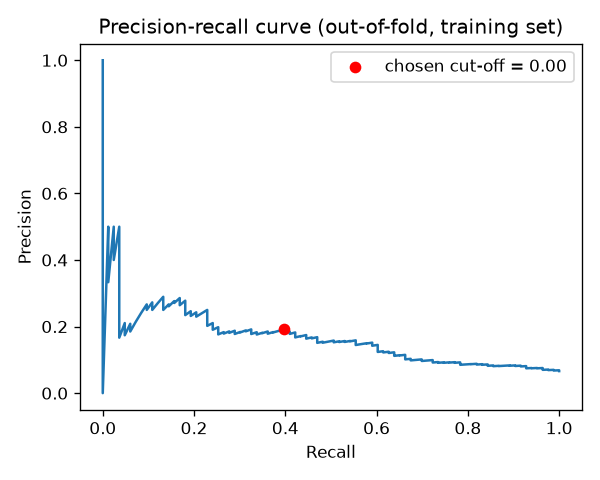
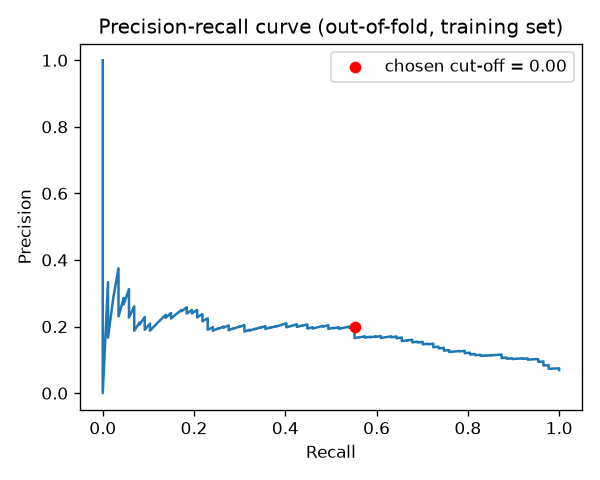
Module 7: SensorCleaner in all pipelines, time-based split, prepare_splits helper

Changed region(s): [[0.15, 0.4688, 0.93, 0.7812]]

diff --git a/src/models.py b/src/models.py
@@ -1,36 +1,49 @@
 from imblearn.over_sampling import SMOTE
 from imblearn.pipeline import Pipeline
 from sklearn.ensemble import HistGradientBoostingClassifier, RandomForestClassifier
+from sklearn.impute import SimpleImputer
 from sklearn.linear_model import LogisticRegression
 from sklearn.preprocessing import StandardScaler
-from sklearn.impute import SimpleImputer
 
-def build_candidates(random_state=42):
-    """All the models we compare. Each one is a full pipeline, so preprocessing
-    is re-fit inside every cross-validation fold (no leakage)."""
+from src.cleaning import SensorCleaner
+
+
+def build_candidates(random_state=42, cleaning=None):
+    """All models we compare. Each starts with SensorCleaner, so column
+    dropping is re-learned inside every CV fold (no leakage)."""
+    cleaning = cleaning or {}
+
+    def clean():
+        return ("clean", SensorCleaner(**cleaning))
+
     return {
-        # Module 3 baseline, for comparison
         "logreg": Pipeline([
+            clean(),
             ("impute", SimpleImputer(strategy="median")),
             ("scale", StandardScaler()),
             ("model", LogisticRegression(max_iter=1000, random_state=random_state)),
         ]),
-        # Fix 1: make each fraud count more during training
         "logreg_balanced": Pipeline([
+            clean(),
             ("impute", SimpleImputer(strategy="median")),
             ("scale", StandardScaler()),
             ("model", LogisticRegression(
                 max_iter=1000, class_weight="balanced", random_state=random_state)),
         ]),
-        # Fix 2: create synthetic frauds (training folds only)
         "logreg_smote": Pipeline([
+            clean(),
             ("impute", SimpleImputer(strategy="median")),
             ("scale", StandardScaler()),
             ("smote", SMOTE(random_state=random_state)),
             ("model", LogisticRegression(max_iter=1000, random_state=random_state)),
         ]),
-        # Fix 3: stronger, tree-based models
-        "random_forest": RandomForestClassifier(
-            n_estimators=100, n_jobs=-1, random_state=random_state),
-        "gradient_boosting": HistGradientBoostingClassifier(random_state=random_state),
+        "random_forest": Pipeline([
+            clean(),
+            ("model", RandomForestClassifier(
+                n_estimators=100, n_jobs=-1, random_state=random_state)),
+        ]),
+        "gradient_boosting": Pipeline([
+            clean(),
+            ("model", HistGradientBoostingClassifier(random_state=random_state)),
+        ]),
     }

diff --git a/src/prepare.py b/src/prepare.py
@@ -1,7 +1,7 @@
 from sklearn.model_selection import train_test_split
 
 from src.ingest import read_from_sqlite
-
+import pandas as pd
 
 def load_dataset(config):
     """Read the table from SQLite and drop exact duplicate rows."""
@@ -20,8 +20,30 @@ def split_features_target(df, target, positive_label, drop_columns=None):
     return X, y
 
 
-def train_test(X, y, test_size=0.2, random_state=42):
-    """Stratified split so train and test keep the same failure rate."""
-    return train_test_split(
-        X, y, test_size=test_size, stratify=y, random_state=random_state
+def train_test(X, y, test_size=0.2, random_state=42, order=None):
+    """Stratified random split, or, if `order` (timestamps) is given,
+    a time-based split: train on the earliest rows, test on the latest."""
+    if order is None:
+        return train_test_split(
+            X, y, test_size=test_size, stratify=y, random_state=random_state
+        )
+    sorted_idx = pd.to_datetime(order).sort_values(kind="stable").index
+    n_test = int(round(len(sorted_idx) * test_size))
+    train_idx, test_idx = sorted_idx[:-n_test], sorted_idx[-n_test:]
+    return X.loc[train_idx], X.loc[test_idx], y.loc[train_idx], y.loc[test_idx]
+
+
+def prepare_splits(config):
+    """Load, separate X/y and split, all according to the config."""
+    df = load_dataset(config)
+    X, y = split_features_target(
+        df, config["target"], config["positive_label"], config.get("drop_columns")
     )
+    order = df[config["time_column"]] if config.get("time_column") else None
+    X_train, X_test, y_train, y_test = train_test(
+        X, y, config.get("test_size", 0.2), config.get("random_state", 42), order
+    )
+    kind = "time-based" if order is not None else "stratified random"
+    print(f"Split ({kind}): train {len(X_train):,} rows ({y_train.sum()} failures), "
+          f"test {len(X_test):,} rows ({y_test.sum()} failures)")
+    return X_train, X_test, y_train, y_test

diff --git a/src/final_evaluation.py b/src/final_evaluation.py
@@ -12,7 +12,7 @@ from sklearn.metrics import precision_recall_curve
 from src.config import load_config
 from src.evaluate import evaluate, print_report
 from src.models import build_candidates
-from src.prepare import load_dataset, split_features_target, train_test
+from src.prepare import prepare_splits
 
 
 def choose_threshold(y_true, y_score, min_recall=None):
@@ -72,12 +72,8 @@ def run(config):
     model_name = config.get("model", "random_forest")
     min_recall = config.get("min_recall")
 
-    df = load_dataset(config)
-    X, y = split_features_target(df, config["target"], config["positive_label"], config.get("drop_columns"))
-    X_train, X_test, y_train, y_test = train_test(
-        X, y, config.get("test_size", 0.2), random_state
-    )
-    model = build_candidates(random_state)[model_name]
+    X_train, X_test, y_train, y_test = prepare_splits(config)
+    model = build_candidates(random_state, config.get("cleaning"))[model_name]
     out_dir = Path("reports") / config["name"]
     out_dir.mkdir(parents=True, exist_ok=True)
 
@@ -97,6 +93,8 @@ def run(config):
 
     # ---- Part 2: unlock the test set, ONCE ----
     model.fit(X_train, y_train)
+    kept = len(model.named_steps["clean"].columns_)
+    print(f"Features kept after cleaning: {kept} of {X_train.shape[1]}")
     test_score = model.predict_proba(X_test)[:, 1]
 
     results = {

diff --git a/src/cleaning.py b/src/cleaning.py
@@ -1,0 +1,30 @@
+import numpy as np
+import pandas as pd
+from sklearn.base import BaseEstimator, TransformerMixin
+
+
+class SensorCleaner(BaseEstimator, TransformerMixin):
+    """Drops mostly-empty, constant and near-duplicate columns.
+    Which columns to keep is learned in fit() (training data only) and applied in transform()."""
+
+    def __init__(self, max_missing=0.5, corr_threshold=0.95):
+        self.max_missing = max_missing
+        self.corr_threshold = corr_threshold
+
+    def fit(self, X, y=None):
+        X = pd.DataFrame(X)
+
+        # 1. drop columns that are mostly empty
+        keep = X.columns[X.isna().mean() <= self.max_missing]
+        # 2. drop columns that never change
+        keep = [c for c in keep if X[c].nunique(dropna=True) > 1]
+        # 3. drop one column from every highly correlated pair
+        corr = X[keep].corr().abs()
+        upper = corr.where(np.triu(np.ones(corr.shape, dtype=bool), k=1))
+        redundant = {c for c in upper.columns if (upper[c] > self.corr_threshold).any()}
+
+        self.columns_ = [c for c in keep if c not in redundant]
+        return self
+
+    def transform(self, X):
+        return pd.DataFrame(X)[self.columns_]

diff --git a/src/compare_models.py b/src/compare_models.py
@@ -8,7 +8,7 @@ from sklearn.metrics import make_scorer, precision_score, f1_score
 
 from src.config import load_config
 from src.models import build_candidates
-from src.prepare import load_dataset, split_features_target, train_test
+from src.prepare import prepare_splits
 
 SCORING = {
     "precision": make_scorer(precision_score, zero_division=0),
@@ -21,18 +21,14 @@ SCORING = {
 def run(config):
     random_state = config.get("random_state", 42)
 
-    df = load_dataset(config)
-    X, y = split_features_target(df, config["target"], config["positive_label"], config.get("drop_columns"))
-    X_train, X_test, y_train, y_test = train_test(
-        X, y, config.get("test_size", 0.2), random_state
-    )
+    X_train, X_test, y_train, y_test = prepare_splits(config)
 
     cv = StratifiedKFold(
         n_splits=config.get("cv_folds", 5), shuffle=True, random_state=random_state
     )
 
     rows = []
-    for name, model in build_candidates(random_state).items():
+    for name, model in build_candidates(random_state, config.get("cleaning")).items():
         start = time.time()
         scores = cross_validate(model, X_train, y_train, cv=cv, scoring=SCORING)
 

diff --git a/src/train_baseline.py b/src/train_baseline.py
@@ -10,7 +10,7 @@ from sklearn.impute import SimpleImputer
 
 from src.config import load_config
 from src.evaluate import evaluate, print_report
-from src.prepare import load_dataset, split_features_target, train_test
+from src.prepare import prepare_splits
 
 
 def build_models(random_state):
@@ -28,13 +28,7 @@ def build_models(random_state):
 def run(config):
     random_state = config.get("random_state", 42)
 
-    df = load_dataset(config)
-    X, y = split_features_target(df, config["target"], config["positive_label"], config.get("drop_columns"))
-    X_train, X_test, y_train, y_test = train_test(
-        X, y, config.get("test_size", 0.2), random_state
-    )
-    print(f"Train: {len(X_train):,} rows ({y_train.sum()} failures)   "
-          f"Test: {len(X_test):,} rows ({y_test.sum()} failures)")
+    X_train, X_test, y_train, y_test = prepare_splits(config)
 
     results = {}
     for name, model in build_models(random_state).items():

diff --git a/README.md b/README.md
@@ -137,3 +137,12 @@ Random-guess PR-AUC ≈ 0.067. Best CV PR-AUC: gradient boosting 0.22, random fo
    Ranking still beat random (PR-AUC 0.17 vs 0.067). Feature reduction is next.
 - EDA: strongest single-sensor effect 0.62 (vs 7.9 on credit card): signal is weak and spread across many sensors.
   Some top-ranked sensors were 91% missing, so their effect scores are unreliable.
+
+  ### SECOM: cleaning + time-based split (Module 7)
+- `SensorCleaner` (inside every pipeline, fit on training folds only) drops sensors >50% missing,
+  constant sensors, and one of each pair correlated >0.95: 590 → 271 sensors.
+- Cleaning barely changed CV performance (gradient boosting PR-AUC 0.22 → 0.23); the useful cut-off stayed ~0.001.
+- Switched to a time-based split (train on earliest 80% of runs, test on latest 20%).
+  Shuffled CV estimated PR-AUC 0.23, but the future test set gave 0.076 (random ≈ 0.054): 3 of 17 failures caught, 40 false alarms.
+  → Likely process drift; shuffled CV is optimistic because it mixes later runs into training.
+  Next: time-aware CV for model selection.
